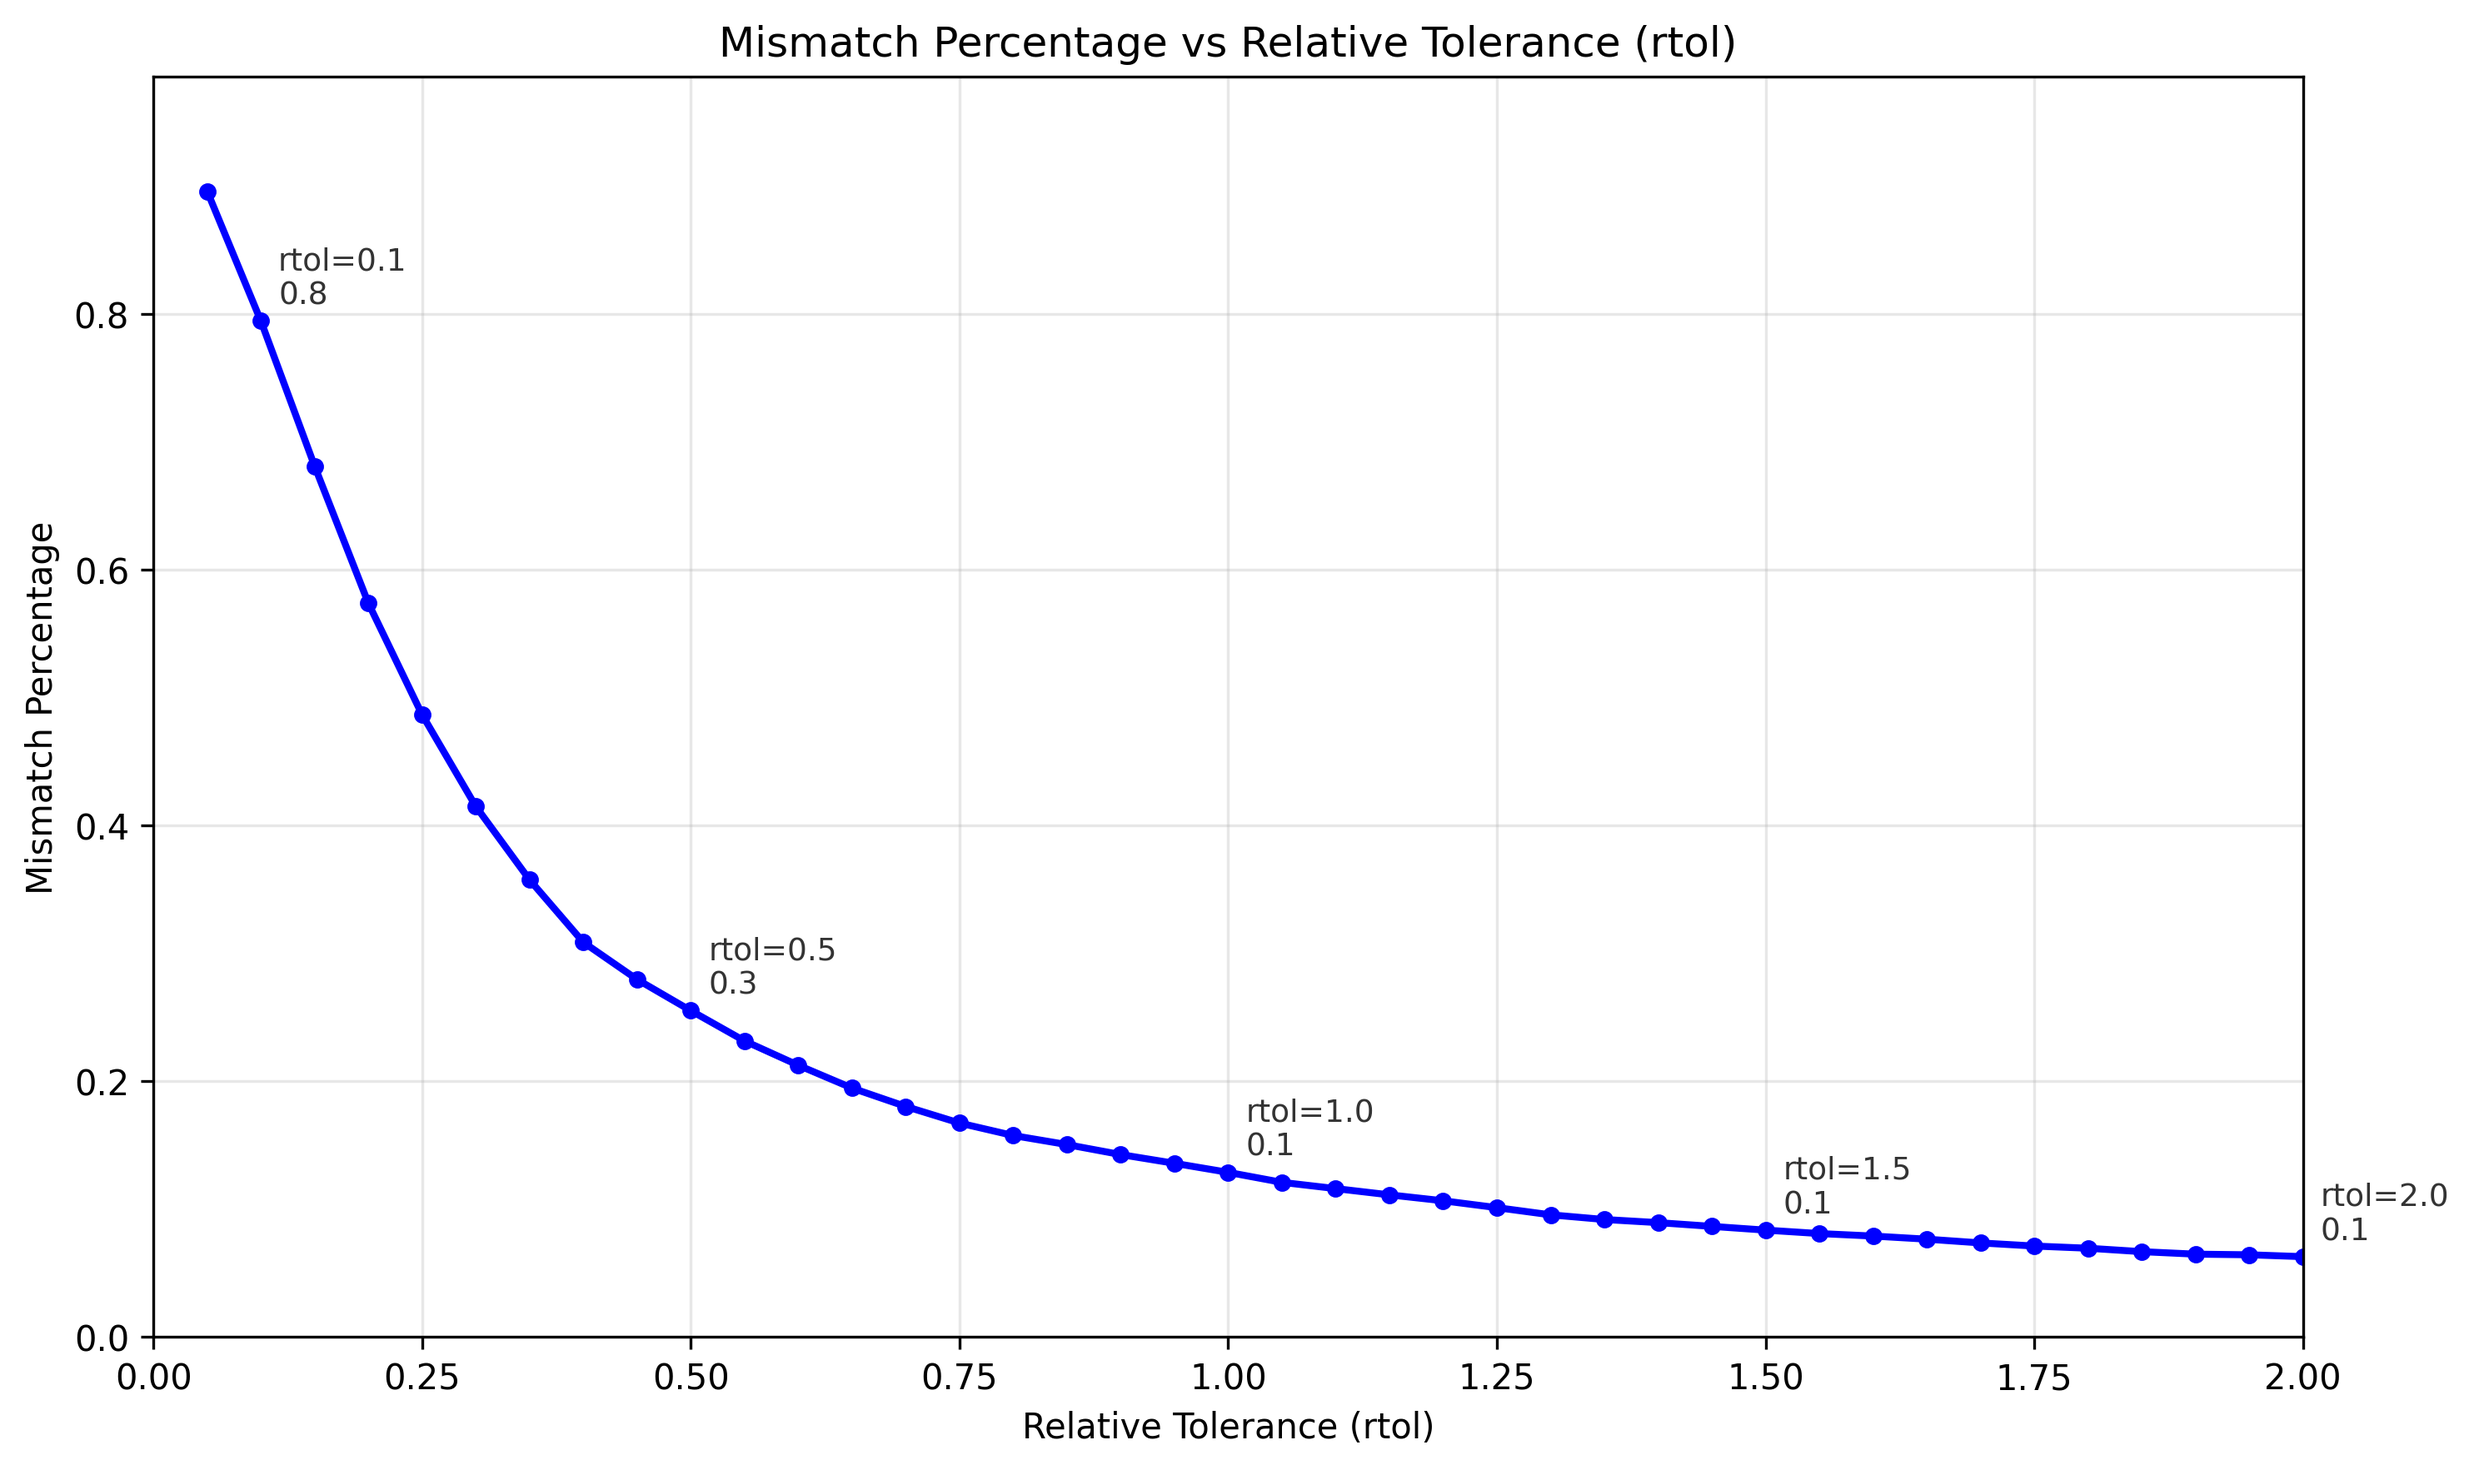
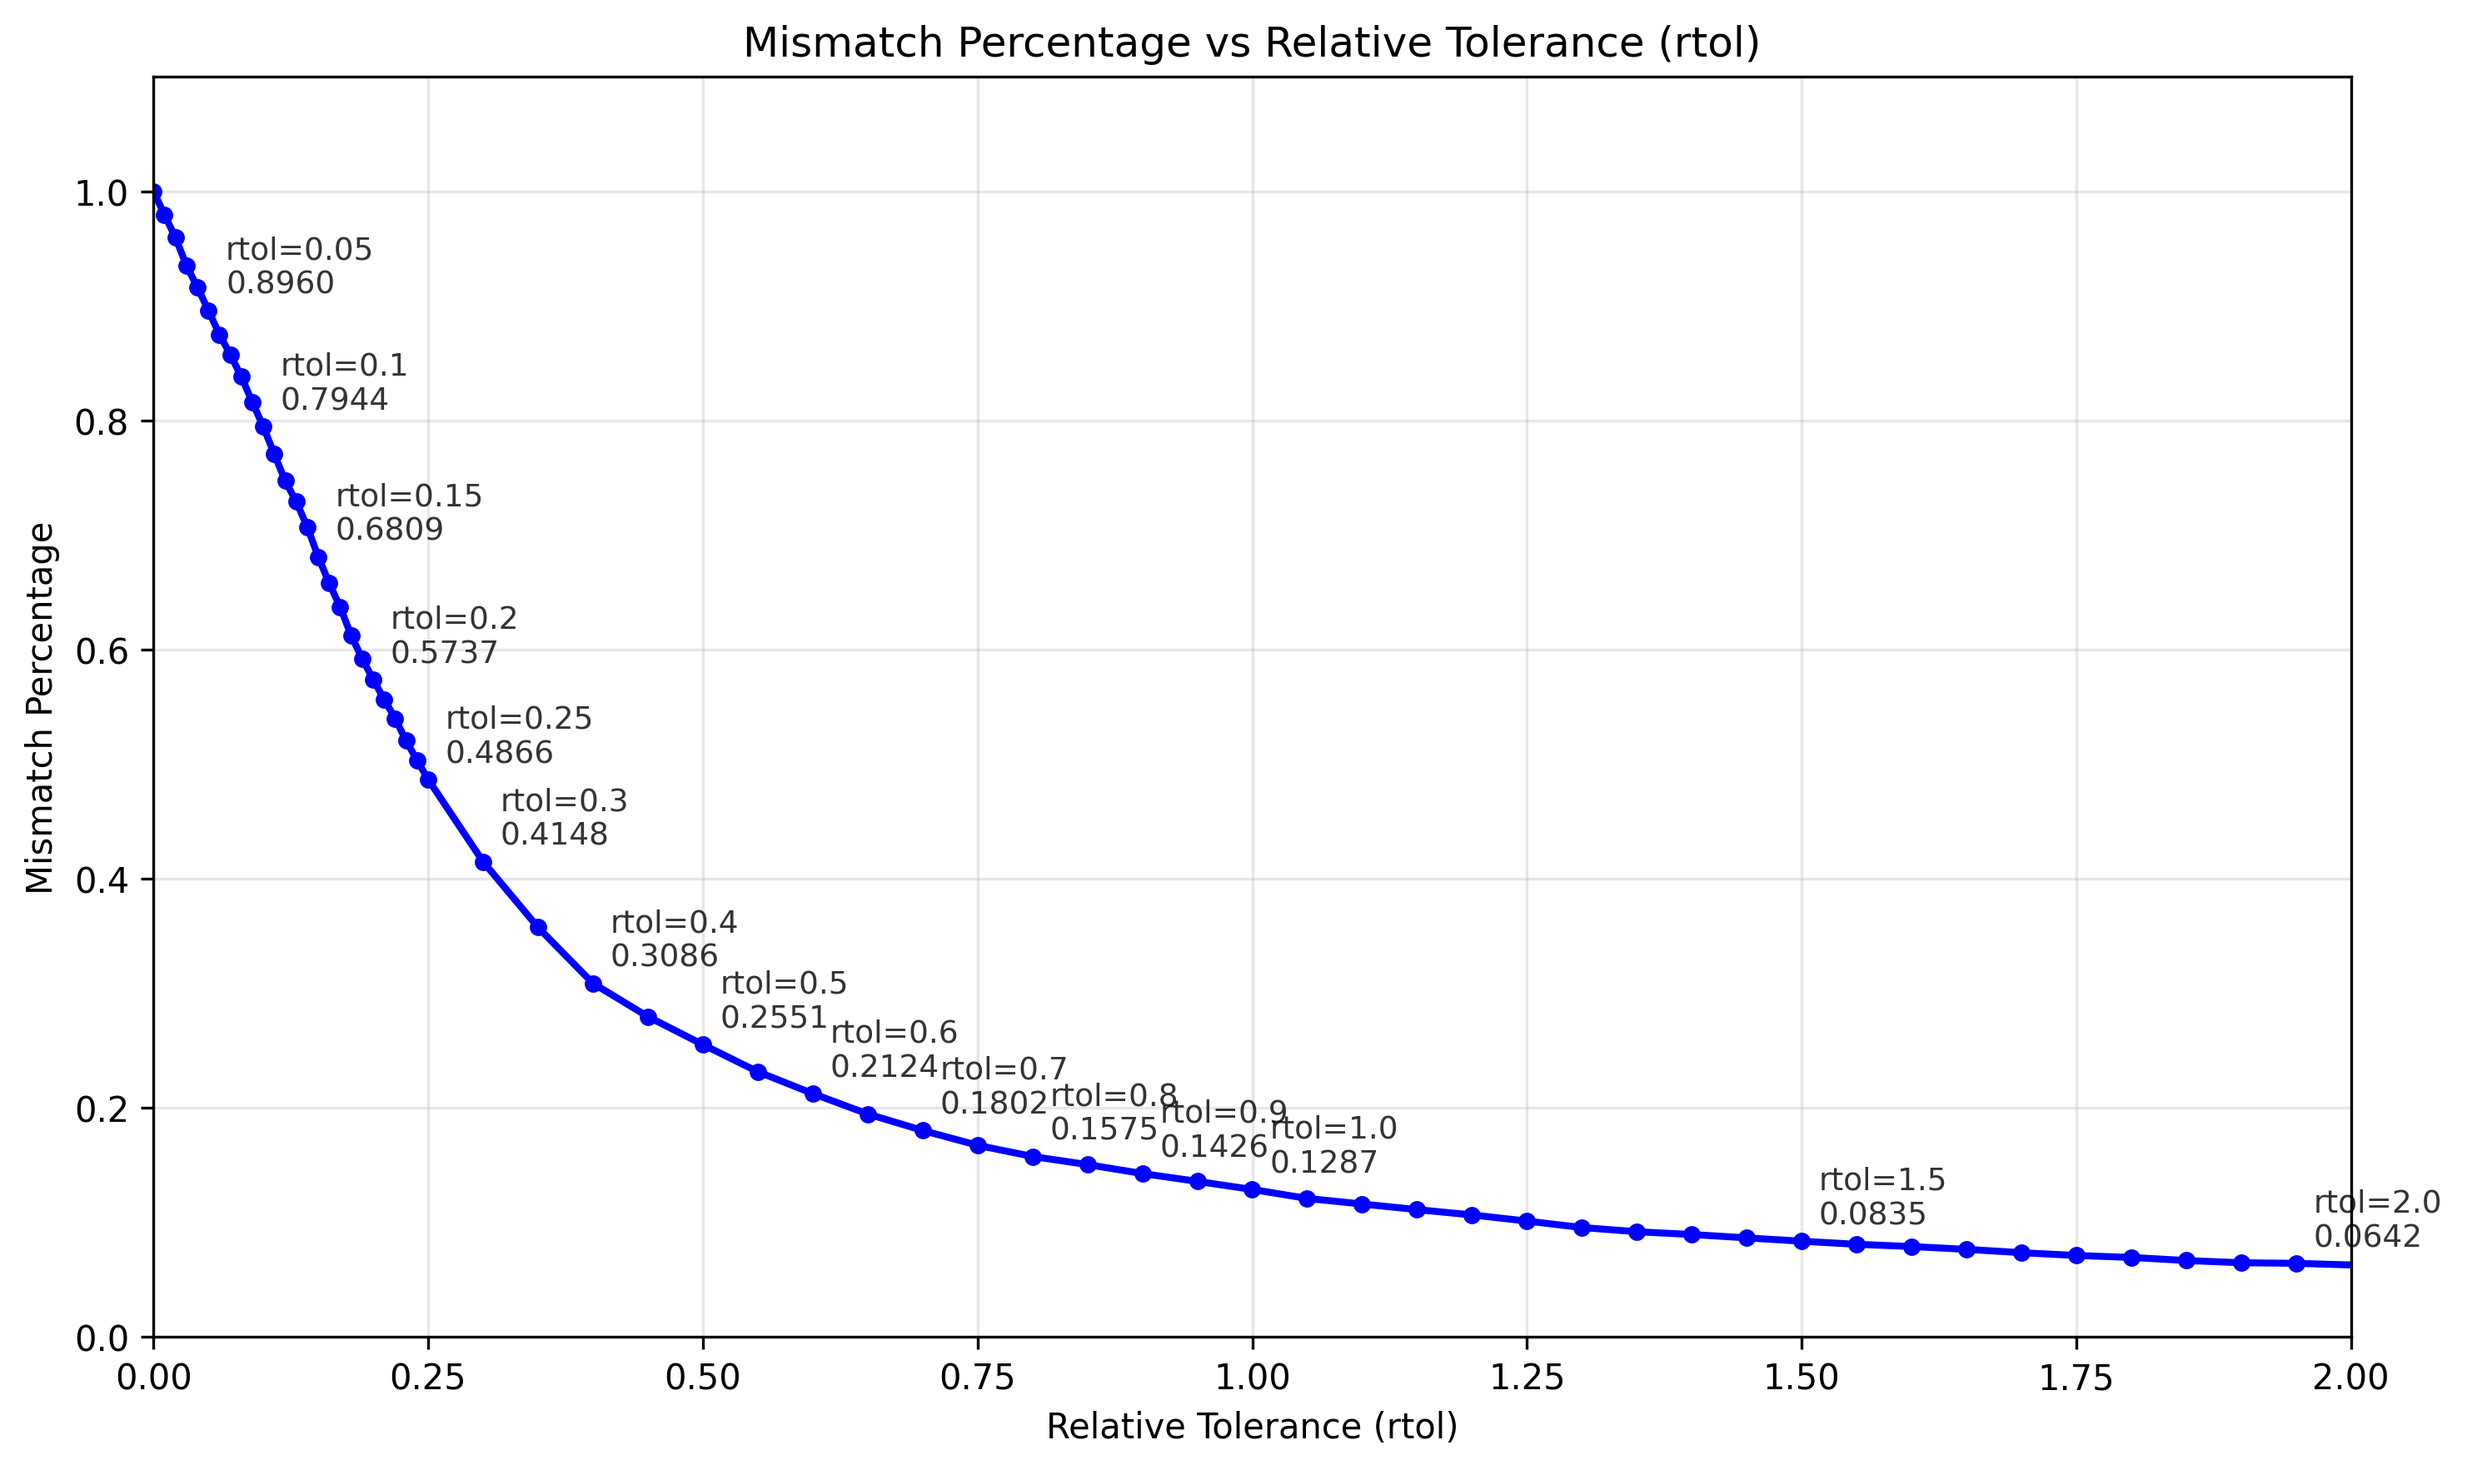
upd plot

diff --git a/tests/test_trtllm_gen_fused_moe.py b/tests/test_trtllm_gen_fused_moe.py
@@ -2251,7 +2251,14 @@ def test_moe_quantization_classes(
     )
 
     # plot the mismatch percentage with rtol
-    rtol_values = np.arange(0.05, 2.05, 0.05)  # From 0.05 to 2.0 with step 0.05
+    # Add more points in the 0-0.25 range for finer granularity
+    rtol_values_fine = np.arange(0.0, 0.26, 0.01)  # 0.00, 0.01, ..., 0.25
+    rtol_values_coarse = np.arange(0.3, 2.0, 0.05)  # 0.30, 0.35, ..., 2.0
+    # Add a very large range for rtol values
+    rtol_values_very_large = np.arange(2.5, 10.5, 1.0)  # 2.5, 3.0, ..., 10.0
+    rtol_values = np.unique(
+        np.concatenate([rtol_values_fine, rtol_values_coarse, rtol_values_very_large])
+    )
     mismatch_percentages = []
 
     for rtol in rtol_values:
@@ -2279,11 +2286,28 @@ def test_moe_quantization_classes(
     plt.ylabel("Mismatch Percentage")
     plt.title("Mismatch Percentage vs Relative Tolerance (rtol)")
     plt.grid(True, alpha=0.3)
-    plt.xlim(0, 2.0)
+    plt.xlim(0, 2.0) # todo: change to max(rtol_values)
     plt.ylim(0, max(mismatch_percentages) * 1.1 if mismatch_percentages else 100)
 
     # Add some key rtol markers
-    key_rtols = [0.1, 0.5, 1.0, 1.5, 2.0]
+    key_rtols = [
+        0.05,
+        0.1,
+        0.15,
+        0.2,
+        0.25,
+        0.3,
+        0.4,
+        0.5,
+        0.6,
+        0.7,
+        0.8,
+        0.9,
+        1.0,
+        1.5,
+        2.0,
+        9.5,
+    ]
     for key_rtol in key_rtols:
         if key_rtol <= max(rtol_values):
             idx = np.argmin(np.abs(rtol_values - key_rtol))
@@ -2325,7 +2349,9 @@ def test_moe_quantization_classes(
     print("=" * 50)
 
     # Use a range of atol values from 0.01 to 1.0
-    atol_values = np.arange(0, 50000, 2500)  # From 0.01 to 1.0 with step 0.02
+    atol_values_fine = np.arange(0, 2500, 100)  # From 0.01 to 1.0 with step 0.02
+    atol_values_coarse = np.arange(2500, 50000, 2500)  # From 0.01 to 1.0 with step 0.02
+    atol_values = np.unique(np.concatenate([atol_values_fine, atol_values_coarse]))
     atol_mismatch_percentages = []
 
     for atol in atol_values:
